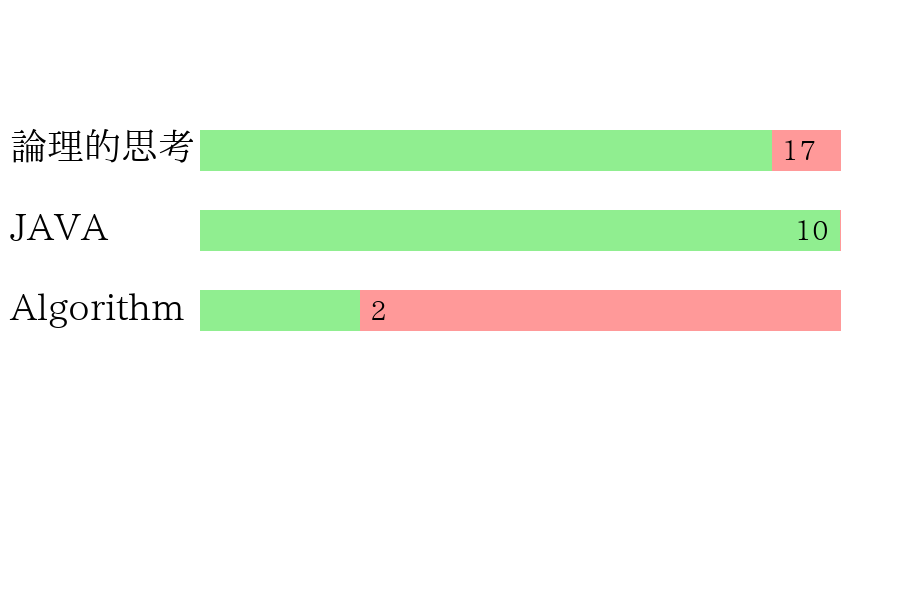
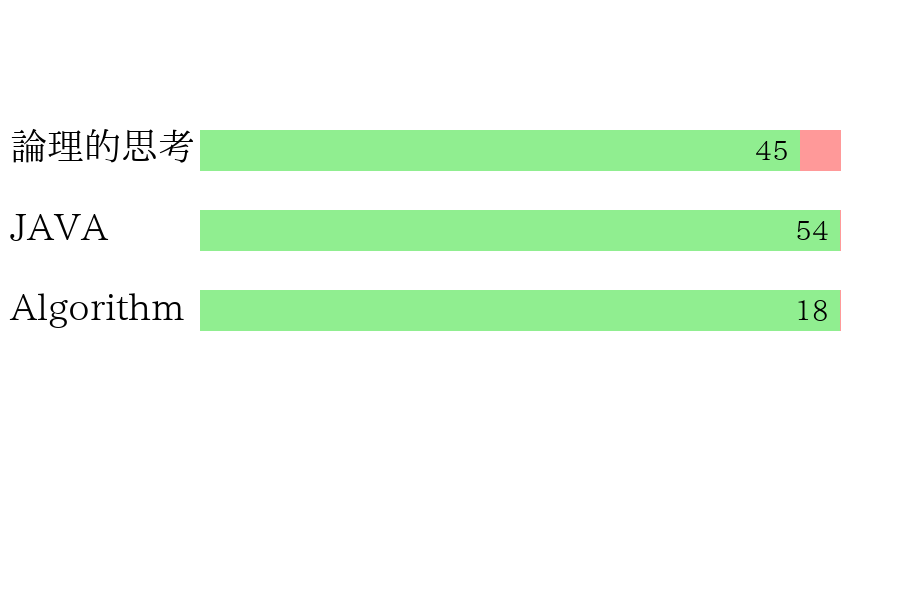
examedit0401

Changed region(s): [[0.3733, 0.48, 0.9333, 0.57], [0.84, 0.21, 0.9022, 0.3], [0.8711, 0.36, 0.9333, 0.42]]

diff --git a/public/pdf/diagnosis_sheet.html b/public/pdf/diagnosis_sheet.html
@@ -52,7 +52,7 @@
 <body>
     <div style="display: flex; align-items: flex-start;">
         <div style="border: 0.5px solid white; width: 340px; height: 100px; padding: 20px; border-bottom: none; box-sizing: border-box;">
-            <div style="border: 1px solid #90EE90;padding:10px;margin-top:-20px;">
+            <div style="border: 1px solid #90EE90;padding:11px;margin-top:-20px;margin-left:-6px;">
                 <img src="{{logo}}" alt="" style="height: 90px;margin-top: 13px;margin-left:5px;">
                 <div>
                     <div style="margin-left: 115px;margin-top:-80px;font-size: 13px;">株式会社ジエンジサービス</div>
@@ -60,7 +60,7 @@
                 </div>
             </div>
         </div>
-        <div style="margin-left: 370px;">
+        <div style="margin-left: 375px;">
           <table cellpadding="1" cellspacing="1" style="border:1px solid #90EE90; border-collapse: collapse;">
             <thead style="background:linear-gradient(111deg, #87D782 0%, #22BC8E 100%);">
               <tr>
@@ -92,7 +92,7 @@
 
     <div class="half-border-box">
         <div class="card" style="padding: 15px;">
-            <div style="border: 0.5px solid #90EE90;height: 210px;">
+            <div style="border: 1px solid #90EE90;height: 210px;">
                 <div style="padding: 10px;">
                     <div style="display: flex;">
                         <div style="margin-left:20px;margin-top: 15px;">問題タイプ</div>
@@ -163,7 +163,7 @@
             </div>
         </div>
         <div class="card" style="padding: 15px;margin-top:-20px;">
-            <div style="border: 0.5px solid #90EE90;height: 270px;">
+            <div style="border: 1px solid #90EE90;height: 270px;">
                 <div style="padding: 10px;">
                     <div style="display: flex;">
                         <div style="margin-left:20px;margin-top: 15px;">診断グラフ</div>
@@ -175,7 +175,7 @@
             </div>
         </div>
         <div class="card" style="padding: 15px;margin-top:-20px;">
-            <div style="border: 0.5px solid #90EE90;height: 330px;width:100%">
+            <div style="border: 1px solid #90EE90;height: 330px;width:100%">
                 <div style="padding: 10px;">
                     <div style="margin-left:20px;">診断解説</div>
                     <div style="border: 2px solid #90EE90;width:70px;margin-top:5px;margin-left:15px;"></div>

diff --git a/module/Applicant/src/Applicant/Controller/ApplicantController.php b/module/Applicant/src/Applicant/Controller/ApplicantController.php
@@ -223,7 +223,6 @@ class ApplicantController extends AbstractActionController
 		$situTbl= $this->getServiceLocator()->get("SituTable");
 		$diagnosisTb = $this->getServiceLocator()->get("DiagnosisTable-Admin");
 		$recordIdx = $situTbl->getRecord();
-
 	  // Read manager info
 	  $managerInfo=$applicantExamTbl->readByManagerInfo();
 	  $managerArray=[$managerInfo["id"], $managerInfo["password"],$managerInfo["name"],$managerInfo["smtp_password"]];
@@ -240,7 +239,7 @@ class ApplicantController extends AbstractActionController
 			$result = $applicantExamTbl->executeExam($post["idx"]);
 			die(json_encode($result));
 		}
-		
+
 		// Read record's diagnosis_code & Read selected diagnosis_code's info
 	  $recordCode    = $examRecordInfo["diagnosis_code"];
 
@@ -375,7 +374,7 @@ class ApplicantController extends AbstractActionController
 		
 			echo "
 			<script>
-			self.location.href='/applicant/examclear';
+					self.location.href='/applicant/examclear?examIdx=" . $datas['examIdx'] . "';
 			</script>
 			";
 		}
@@ -592,6 +591,8 @@ function mailByApplicantExam($applicantInfo,$sqlSet,$managerArray,$examRecordIdx
   }
 
 	function examclearAction() {
+		$p = $this->params()->fromPost();
+		print_r($p);exit;
 		$this->layout("/applicant/examclear");
 	}
 
